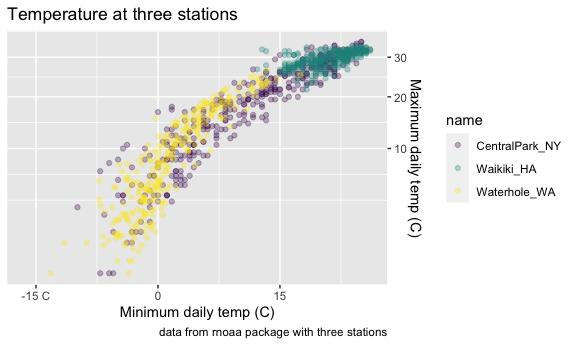
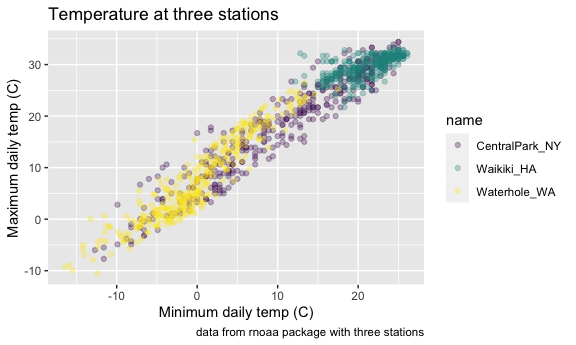
themes

diff --git a/viz_part2.md b/viz_part2.md
@@ -128,28 +128,30 @@ weather_df %>%
     y = "Maximum daily temp (C)",
     caption = "data from rnoaa package with three stations"
   ) +
-  scale_x_continuous(
-    breaks = c(-15, 0, 15),
-    labels = c("-15 C", "0", "15")
-  ) +
-  scale_y_continuous(
-    trans = "sqrt",
-    position = "right"
-  ) +
-  scale_color_hue(
-    name = "Location",
-    h = c(100, 300)
-  ) +
   scale_color_viridis_d()
 ```
 
-    ## Scale for 'colour' is already present. Adding another scale for 'colour',
-    ## which will replace the existing scale.
-
-    ## Warning in self$trans$transform(x): NaNs produced
-
-    ## Warning: Transformation introduced infinite values in continuous y-axis
-
-    ## Warning: Removed 90 rows containing missing values (geom_point).
+    ## Warning: Removed 15 rows containing missing values (geom_point).
 
 <img src="viz_part2_files/figure-gfm/unnamed-chunk-5-1.png" width="90%" />
+
+## Themes
+
+``` r
+weather_df %>%
+  ggplot(aes(x = tmin, y = tmax, color = name)) +
+  geom_point(alpha = .3) +
+  labs(
+    title = "Temperature at three stations",
+    x = "Minimum daily temp (C)",
+    y = "Maximum daily temp (C)",
+    caption = "data from rnoaa package with three stations"
+  ) +
+  scale_color_viridis_d() +
+  theme_minimal() +
+  theme(legend.position = "bottom")
+```
+
+    ## Warning: Removed 15 rows containing missing values (geom_point).
+
+<img src="viz_part2_files/figure-gfm/unnamed-chunk-6-1.png" width="90%" />
